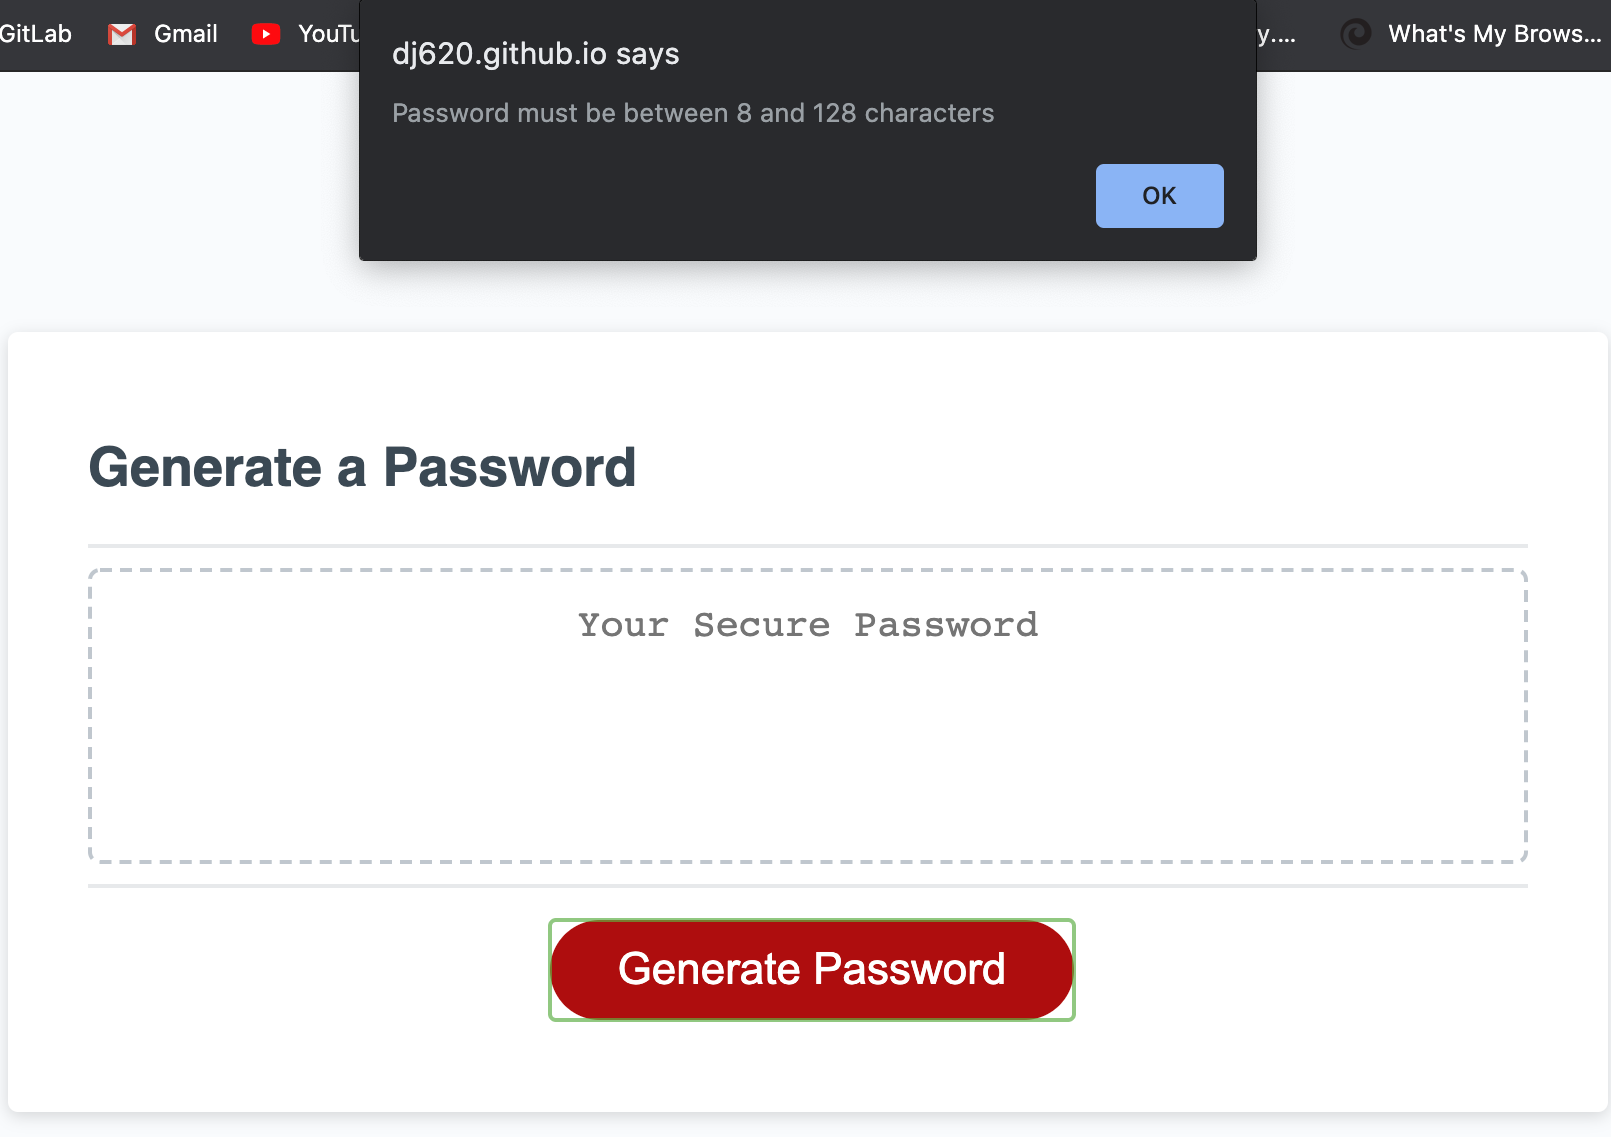
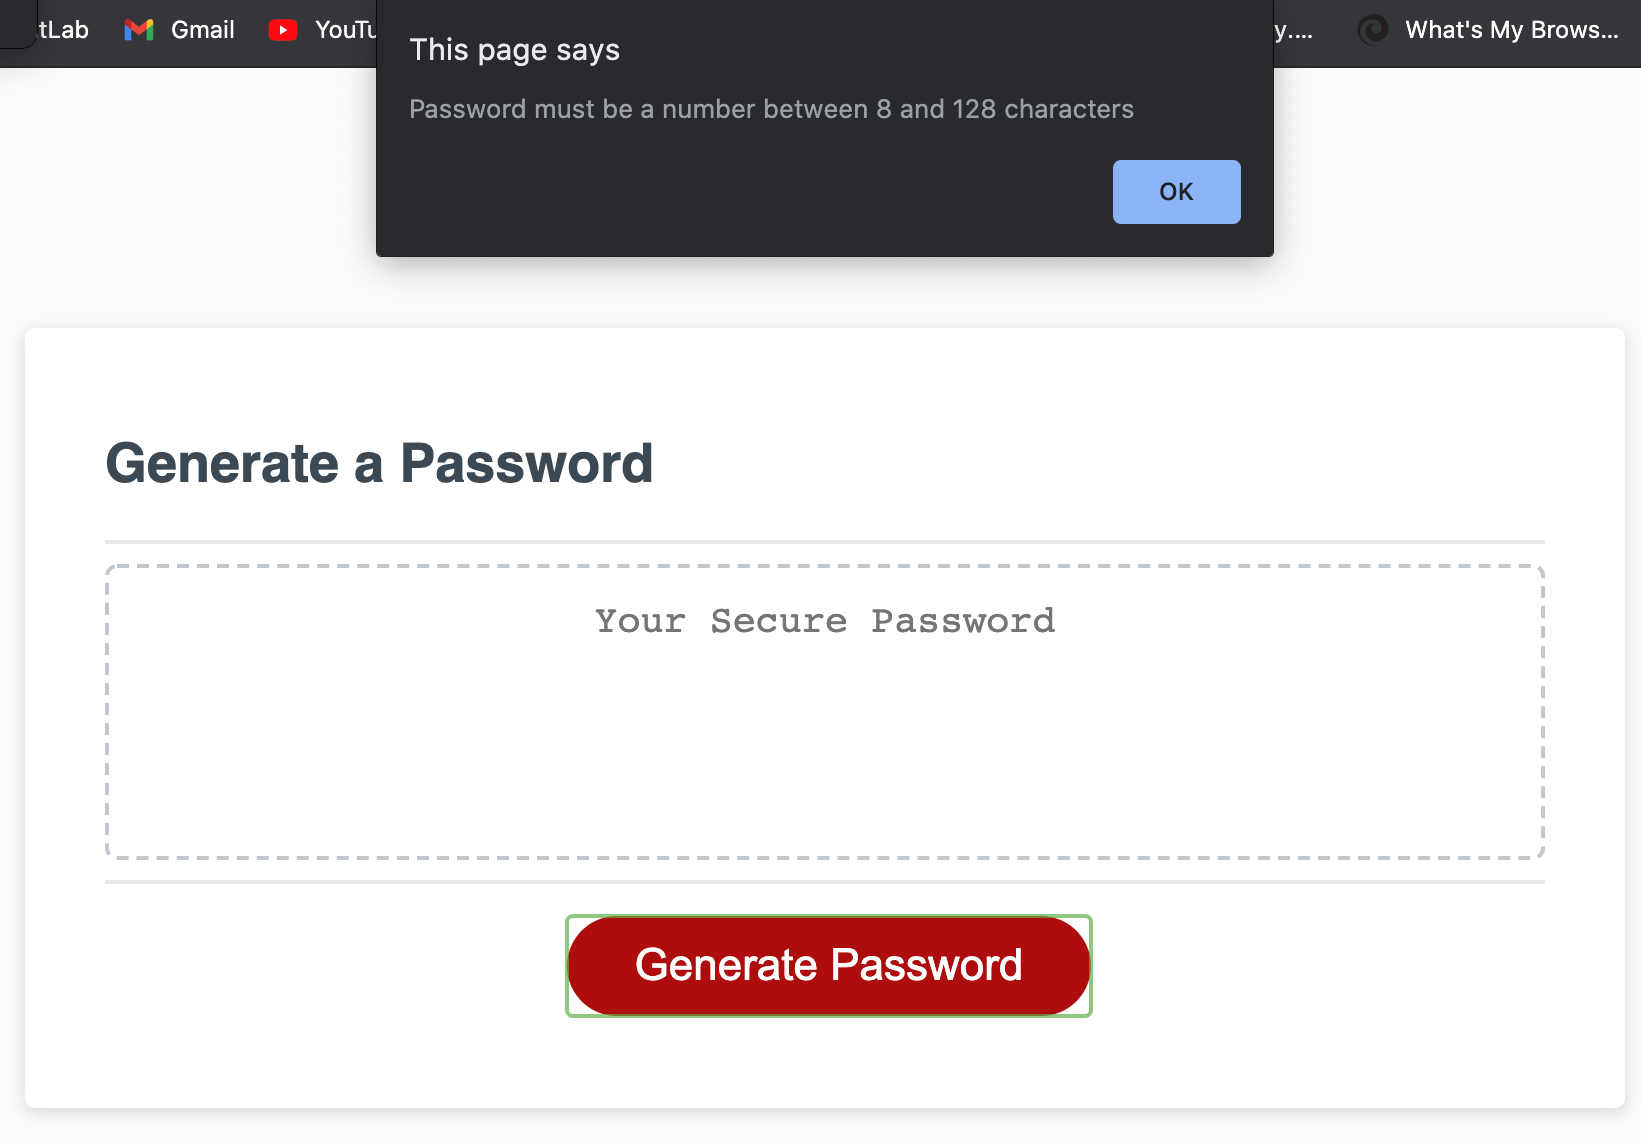
Added a component to the application so that if a user adds anything besides a number to the length, they are alerted that it must be a number between 8 and 128

diff --git a/script.js b/script.js
@@ -18,9 +18,9 @@ function generatePassword() {
   var pwLength = prompt("How many characters would you like in your password?");
 
   // A loop that will run if the length selected is not between 8 and 128
-  while (pwLength < 8 || pwLength > 128) {
+  while (pwLength < 8 || pwLength > 128 || typeof pwLength !== "number") {
     // If the length selected is not within the parameters, a prompt lets the user know to keep the length between 8 and 128 and asks the user to once again enter the length of their desired password
-    alert("Password must be between 8 and 128 characters");
+    alert("Password must be a number between 8 and 128 characters");
     pwLength = prompt("How many characters would you like in your password?");
   }
 

diff --git a/README.md b/README.md
@@ -27,7 +27,7 @@ To use the password generator, simply navigate to the page and click the 'Genera
 
 ![how many characters screenshot](length.png)
 
-If you enter a number smaller than 8 or larger than 128, you will get an alert that informs you that the number must be between 8 and 128.
+If you enter a number smaller than 8 or larger than 128, or any character that isn't a number, you will get an alert that informs you that the length must be a number between 8 and 128.
 
 ![length alert screenshot](length-alert.png)
 
